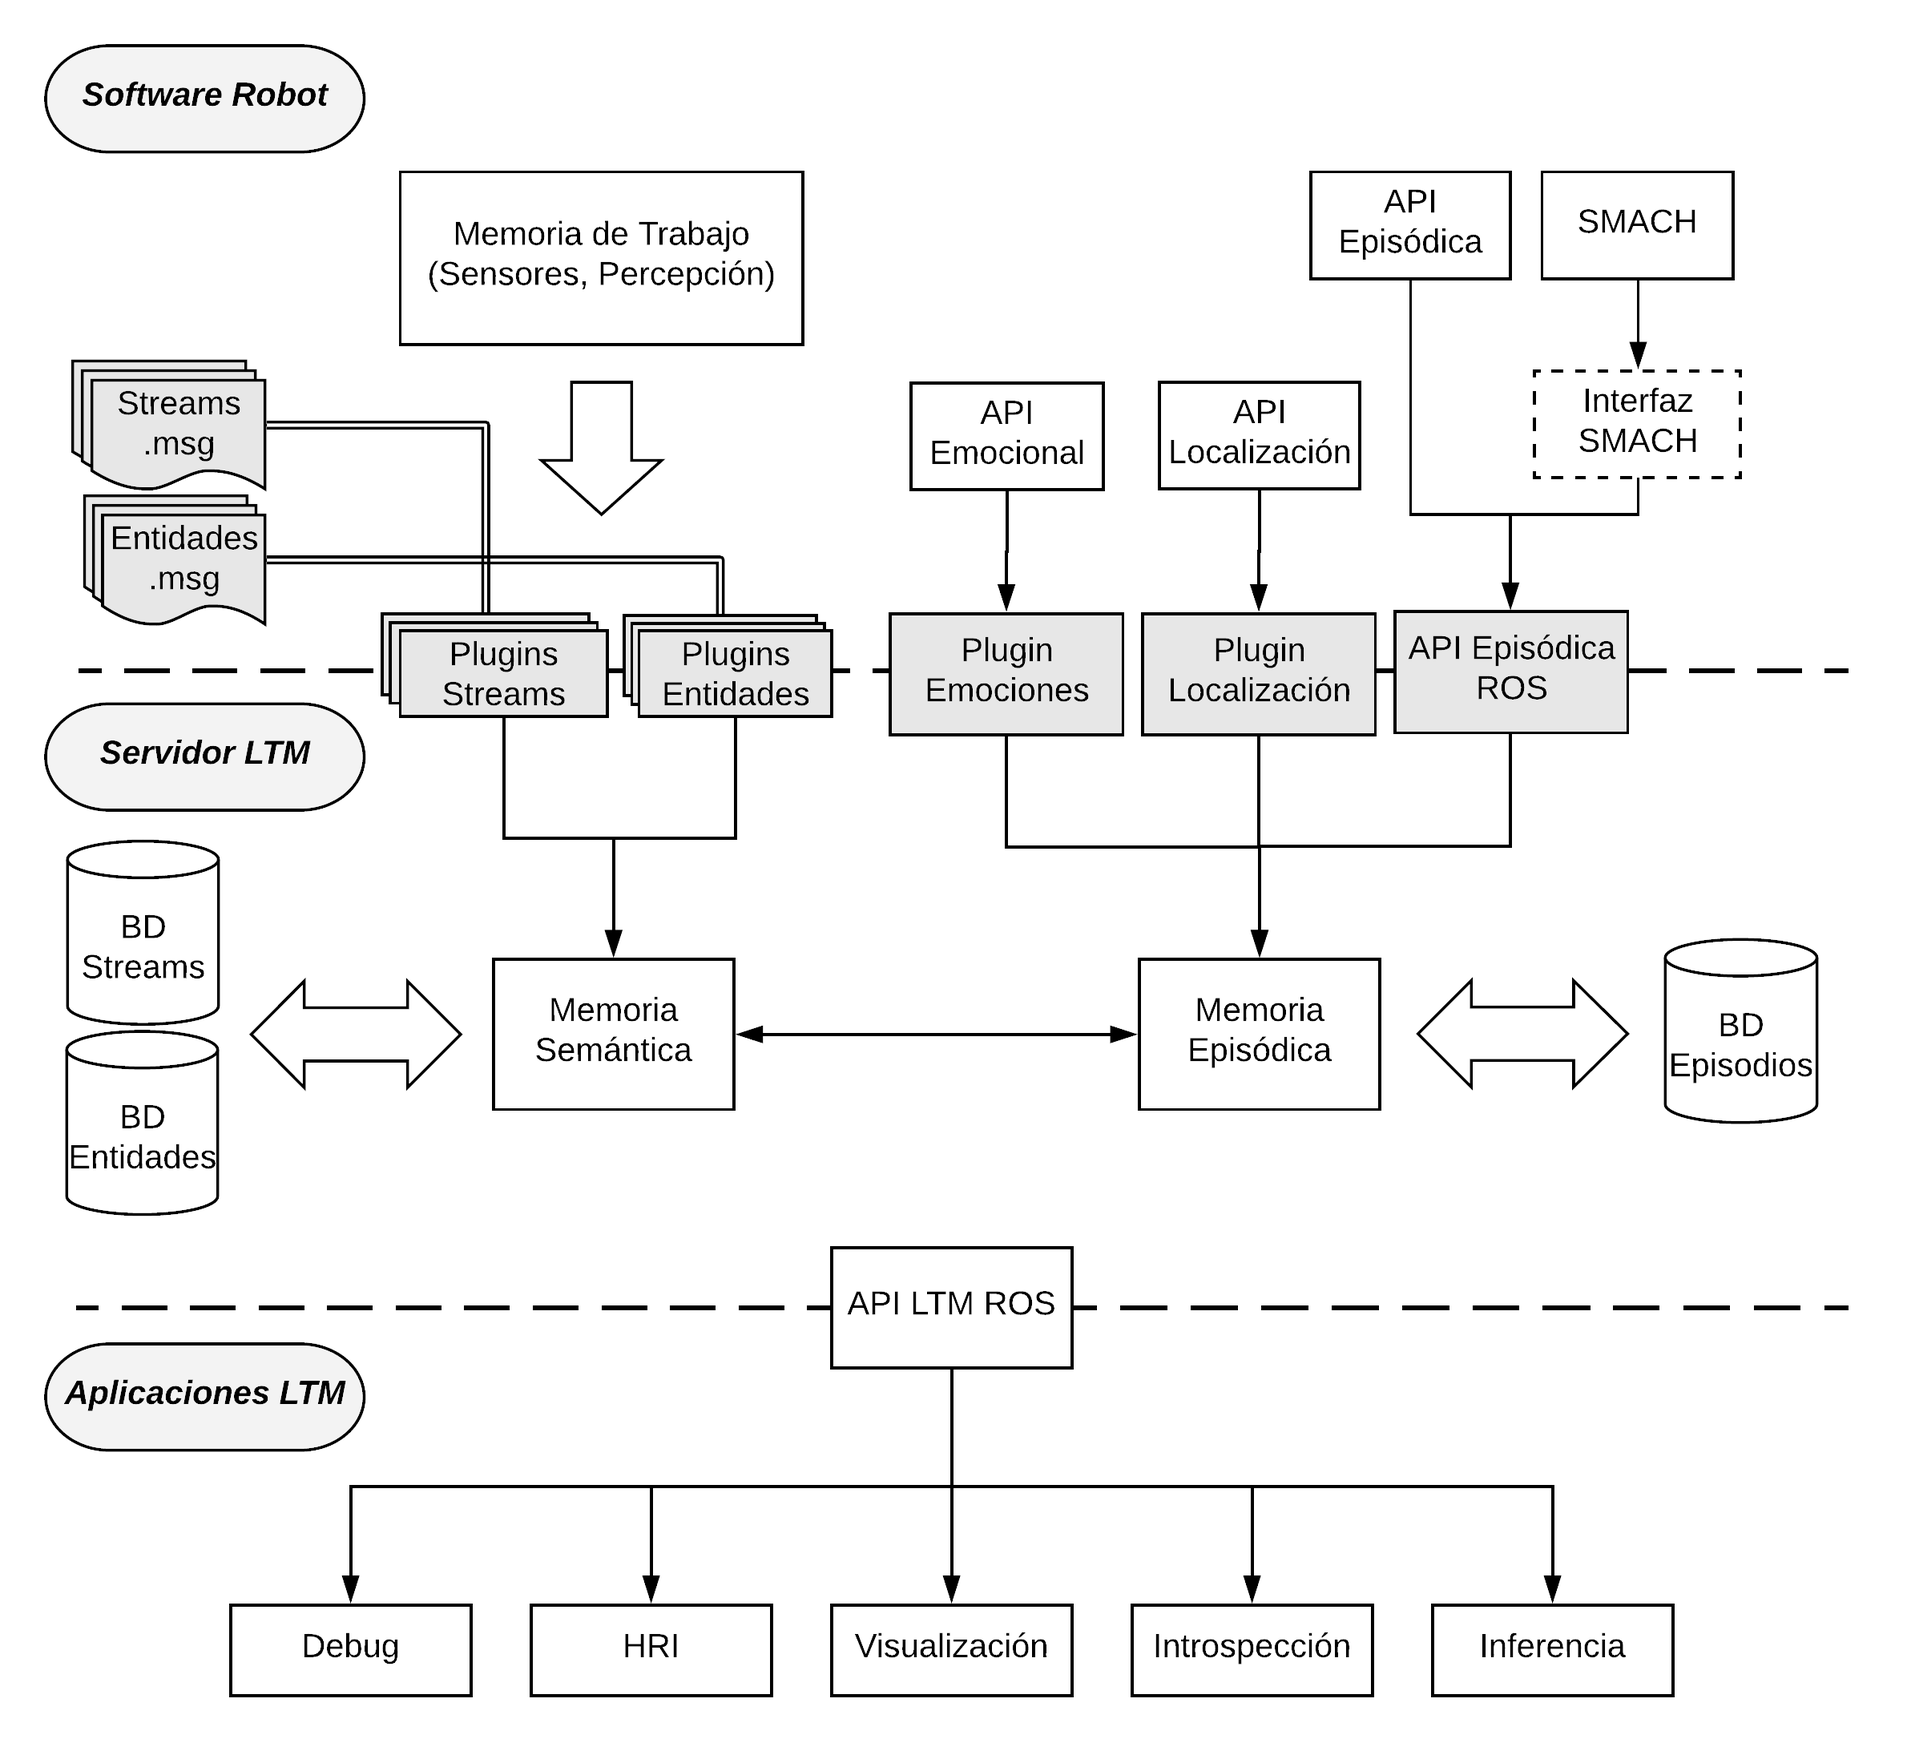
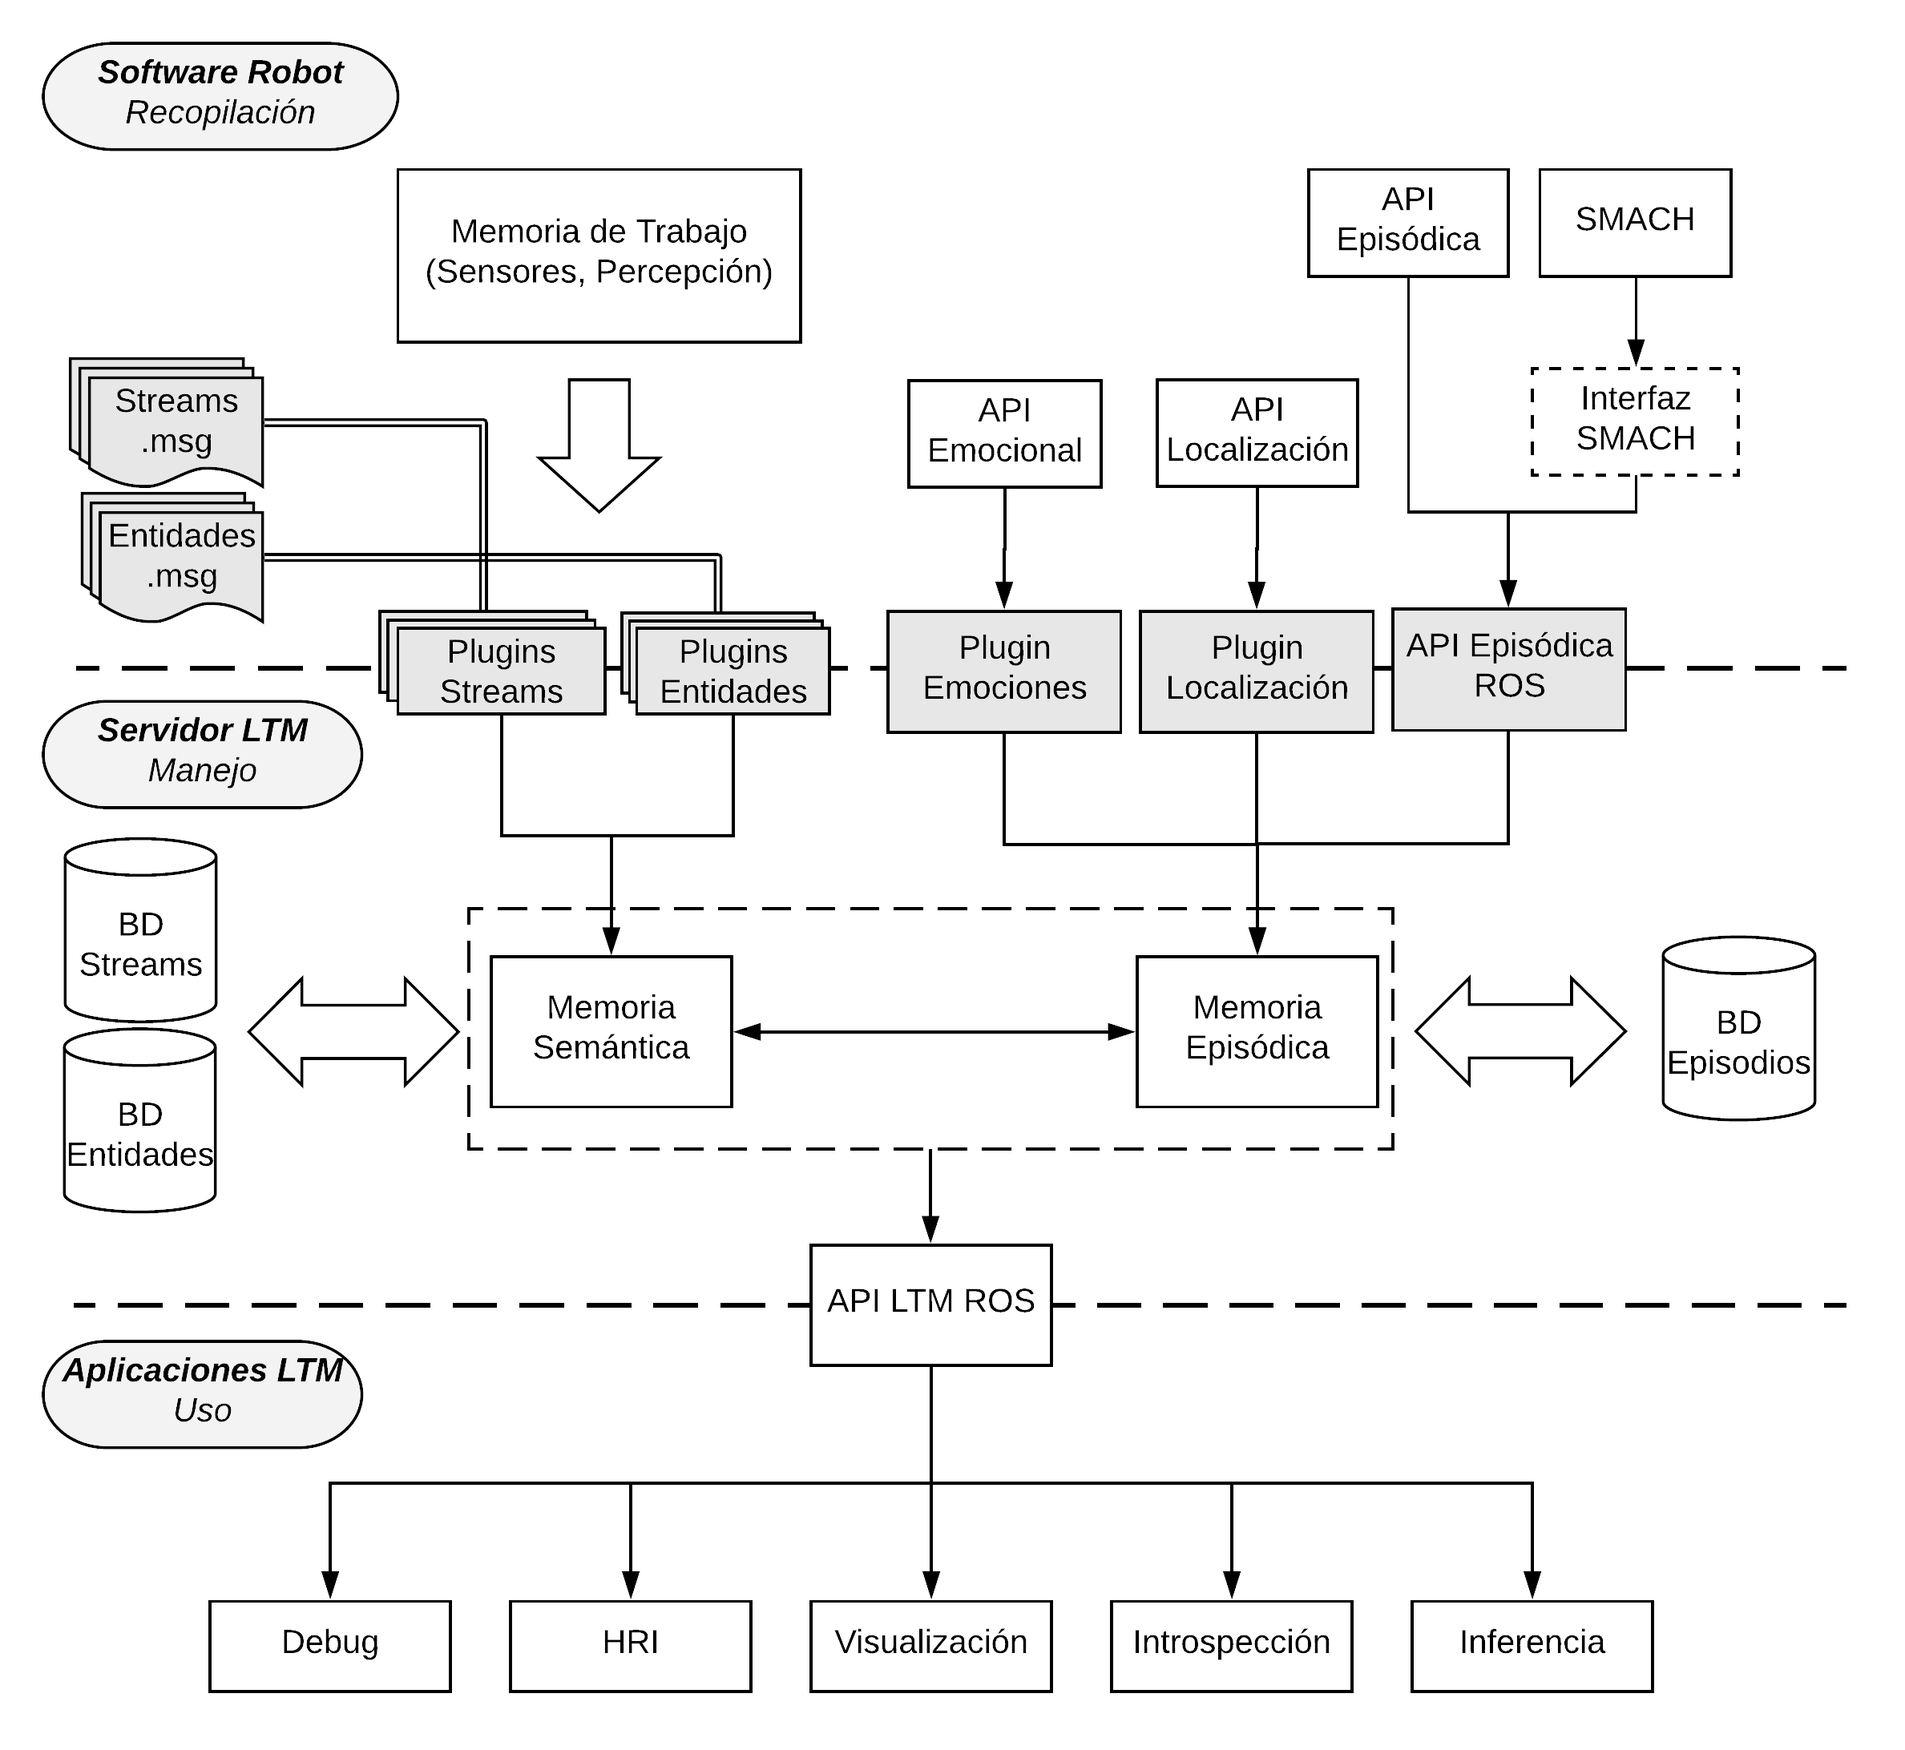
quito todos.. diagrama software

diff --git a/informe/chapters/5_implementacion.tex b/informe/chapters/5_implementacion.tex
@@ -139,9 +139,6 @@ La documentación incluye una guía de instalación del proyecto y sus dependenc
 
 En ésta sección se muestran los mensajes ROS implementados para manejar el concepto de episodios, los que son la base sobre la que se construye el sistema LTM y definen la estructura episódica a utilizar para la comunicación entre los clientes y el servidor en ROS.
 
-\todounsure{Pongo código fuente de todos los mensajes definidos?.. los pongo en los anexos?.. son 3 páginas de sólo código!!}
-
-
 % \ref{lst:episode.msg}
 \subsection{Mensajes definidos por el servidor}
 
@@ -161,7 +158,6 @@ Finalmente, tomando en cuanta las consideraciones anteriores, se agregan los aju
 	\item Campo \texttt{uint8 type}: Sirve para indicar si el episodio debe ser considerado como hoja o nodo del árbol.
 	\item Campo \texttt{string[] children\_tags}: Vector que sirve para acceder rápidamente a todos los \texttt{tags} definidos en los hijos. Se reserva el campo \texttt{tags}, para dar descripciones asociadas solamente al episodio actual.
 \end{itemize}
-\todoimplementation{Optimización: condición de que hijos son ordenados por tiempo de inicio}
 
 % SOBRE EL MENSAJE ROS
 \paragraph{Representación:}
@@ -180,7 +176,6 @@ Y el mensaje \texttt{Episode.msg} es modificado como sigue:
 % SOBRE MENSAJE EPISODICO
 \paragraph{Representación:}
 Considerando el diseño estudiado, se crea el mensaje \texttt{Where.msg} para almacenar el contexto espacial del episodio, utilizando los siguientes campos:
-\todopaused{Actualizar estos datos de acuerdo a la modificación que se hará al sistema.}
 \begin{itemize}
 	\item \texttt{geometry\_msgs/Point position}\footnote{El paquete de ROS \texttt{geometry\_msgs} proporciona mensajes para manejar primitivas geométricas y sus transformaciones. Pertenece al conjunto de paquetes para mensajes \texttt{common\_msgs}, el cual se considera estable. Más información en la web oficial: \url{http://wiki.ros.org/geometry\_msgs}}: Mensaje que permite definir la posición del robot durante la ocurrencia del episodio. A pesar de que el tipo de dato permite definir 3 coordenadas, sólo se consideran los campos \texttt{position.x} y \texttt{position.y}. En el caso de ser un nodo del árbol, corresponde al centroide del campo \texttt{children\_hull}.
 	\item \texttt{string frame\_id}: Indica el nombre del sistema de coordenadas sobre el cual se define el campo \texttt{position}.
@@ -191,11 +186,6 @@ Considerando el diseño estudiado, se crea el mensaje \texttt{Where.msg} para al
 	\item \texttt{string[] children\_locations}:
 	\item \texttt{string[] children\_areas}:
 \end{itemize}
-\todoimplementation{Crear submensaje para Where.msg, que almacene: location, area, time}
-\todoimplementation{Soportar más de 1 lugar semántico y coordenado para hijos.}
-\todoimplementation{Modificar implementación para agregar soporte a más de un frame/mapa.}
-\todoimplementation{Crear submensaje para Where.msg, que represente ubicación coordenada múltiple}
-\todoimplementation{Limitantes Where: + de una posición.... Frames únicos por árbol}
 
 Finalmente, el mensaje \texttt{Episode.msg} es modificado como sigue:
 \begin{itemize}
@@ -250,7 +240,6 @@ Finalmente, el mensaje \texttt{Relevance.msg} es modificado como sigue:
 \begin{itemize}
 	\item \texttt{ltm/HistoricalRelevance historical}: Se agrega una instancia del mensaje ROS de tipo \texttt{HistoricalRelevance.msg}, para almacenar la información relativa a la relevancia histórica del episodio.
 \end{itemize}
-\todopaused{Sobre la tasa de decaimiento histórica implementada.}
 
 % MENSAJE ROS
 \paragraph{Representación:}
@@ -264,7 +253,6 @@ Para su diseño, se crea un mensaje de tipo \texttt{Info.msg} con los siguientes
 	\item \texttt{string ros\_version}: Distribución de ROS utilizada. Por ejemplo, ``kinetic''.
 	\item \texttt{string os\_version}: Información sobre el sistema operativo donde se ejecuta el servidor LTM. Por ejemplo, ``GNU/Linux, Ubuntu 16.04, 4.13.0-43-generic, x86\_64''.
 \end{itemize}
-\todolater{Corregir campos con los de la versión final.}
 
 Luego, se modifica el mensaje \texttt{Episode.msg} como sigue:
 \begin{itemize}
@@ -276,8 +264,7 @@ Una vez definido que los mensajes para \textit{streams} y entidades serán almac
 \begin{itemize}
 	\item \texttt{ltm/What what}: Se agrega una instancia del mensaje \texttt{What.msg}. Sus contenidos son descritos en las siguientes secciones.
 \end{itemize}
-\todoimplementation{Mensajes definidos por usuario deben poseer un campo con metadatos, manejados por el server.}
-\todoimplementation{LTM server con warning en texto y notificación inotify cuando quede poco espacio de disco (menor a X\%) (o se ha ocupado más de X GB) debido al server... configurable por usuario...}
+
 
 % REPRESENTACIÓN EN EL MENSAJE EPISODE.MSG
 \paragraph{Representación:}
@@ -285,27 +272,16 @@ Considerando lo anterior, se modifica el mensaje \texttt{What.msg} para agregar 
 \begin{itemize}
 	\item \texttt{string[] streams}: Listado de \textit{streams} almacenados para el episodio,  referenciados por los nombres de sus colecciones. El identificador del \textit{stream} corresponde al campo \texttt{uid} del episodio.
 \end{itemize}
-\todoimplementation{Mensajes definidos por usuario deben poseer un campo con metadatos, manejados por el server.}
-
-\todoimplementation{Se podría agregar ID opcional del stream. Si ID=0, entonces se ocupa el uid del episodio. Sirve para casos de prueba en donde se busque crear N episodios, pero no se requiera crear N streams de cada tipo. i.e., para asociar ID fijo a todo un set de episodios.}
 
 % REPRESENTACIÓN EN EL MENSAJE EPISODE.MSG
 \paragraph{Representación:}
 % TODO
 
-\todoimplementation{COMO MANEJAR CONTEXTOS, PUES SE PUEDE REQUERIR SU INFORMACIÓN, INCLUSO DURANTE EL MISMO EPISODIO!!.. DEBEN SER ALMACENADOS UNA VEZ INSCRITOS Y SER CERRADOS MANUALMENTE.}
 
-
-\todoimplementation{Modificación de la estructura de mensajes semánticos}
 % modificar msg de colección MD5 y poder seguir ocupando la base de datos.
 % - mongo no tiene problema en modificar representación ...
 % - el driver ROS si.
 
-\todoimplementation{Server con warning si mensaje a almacenar pesa más del límite!.}
-\todowrite{Es labor del usuario definir el merge del historial.}
-
-\todoimplementation{Condiciones de búsqueda para cada tipo de dato primitivo en ROS.}
-\todoimplementation{Quitar Update service para episodios,streams y entidades.}
 
 \lstset{style=/Style/ROS/MSG}
 \lstinputlisting[caption=ltm/Episode.msg,label=lst:episode.msg]{code/msg/Episode.msg}
@@ -416,7 +392,6 @@ Considerando lo anterior, se modifica el mensaje \texttt{What.msg} para agregar 
 .
 \lstset{style=/Style/yaml/ROS}
 \lstinputlisting[caption=server.yaml]{code/config/server.yaml}
-\todounsure{Listing en los anexos??}
 
 \subsubsection{Launchfiles}
 
@@ -549,10 +524,6 @@ Considerando lo anterior, se modifica el mensaje \texttt{What.msg} para agregar 
 % - Registro en pluginlib y configuración en el server
 % - REVISAR MATCH CON DISEÑO ESCRITO
 .
-\todopaused{Escribir cuando esté implementado}
-
-\todowrite{PONERSE EN EL LUGAR DE NO ALCANZAR A IMPLEMENTAR EN BENDER... PERO DEJAR PROPUESTA...}
-
 
 % ==============================================================================
 % ==============================================================================
@@ -571,7 +542,6 @@ Considerando lo anterior, se modifica el mensaje \texttt{What.msg} para agregar 
 %    - emociones simples.
 %    - módulos disponibles (con el robot a medias)
 .
-\todopaused{Escribir cuando esté implementado}
 
 
 % ==============================================================================
@@ -582,8 +552,6 @@ Considerando lo anterior, se modifica el mensaje \texttt{What.msg} para agregar 
 % INTERFAZ IMAGES
 % - API del ROBOT
 .
-\todopaused{Escribir cuando esté implementado}
-\todoimplementation{Proveer plugin agnóstico al robot, configurable a través de parámetros.}
 
 % ==============================================================================
 % ==============================================================================
@@ -593,7 +561,6 @@ Considerando lo anterior, se modifica el mensaje \texttt{What.msg} para agregar 
 % INTERFAZ ENTITIES
 % - API del ROBOT
 .
-\todopaused{Escribir cuando esté implementado}
 
 
 % ==============================================================================

diff --git a/informe/chapters/4_diseno.tex b/informe/chapters/4_diseno.tex
@@ -451,7 +451,7 @@ Por lo general, los campos de un \textit{stream} no requieren ser indexados, ya 
 \ltmconcept{Tamaño del mensaje}
 El límite de tamaño para cada mensaje ROS a almacenar es de $16 MB$, lo que impone una cota superior a la cantidad de datos que pueden ser almacenados por cada episodio. Según se describe en la Sección  \ref{sec:mongodb}, \textit{MongoDB} provee estrategias de almacenamiento para evitar este límite, las que deben ser configuradas manualmente por el usuario.
 
-\todoimprove{Por ejemplo, esto permitiría almacenar hasta $N$ imágenes a color de cierto tamaño, o $M$ de ellas en escala de grises.}
+%\todoimprove{Por ejemplo, esto permitiría almacenar hasta $N$ imágenes a color de cierto tamaño, o $M$ de ellas en escala de grises.}
 
 
 %% =============================================================================
@@ -537,6 +537,7 @@ No es necesario dar soporte para crear nuevos registros del historial de entidad
 Para evitar sobrecargar el ancho de banda de red, con respuestas a consultas que retornen muchos episodios o datos semánticos, se diseñan las operaciones de lectura en 2 etapas. Primero, se obtienen los identificadores de los mensajes de interés mediante una condición que provee el usuario. Luego, se puede acceder a los episodios, \textit{streams} y entidades mediante servicios ROS, encargados de retornar mensajes para los identificadores escogidos.
 
 \ltmconcept{Filtro de mensajes}
+La búsqueda de mensajes según condiciones es considerada por el requisito \RSlabel{06}.
 Para evitar limitar las consultas que puede realizar el usuario sobre la base de datos y para simplificar el diseño, se decide utilizar el sistema de condiciones nativo de MongoDB. Así, es posible aplicar filtros complejos a las consultas, basados en todos los campos disponibles de cada documento. Sin embargo, las consultas sólo pueden ser aplicadas a una colección a la vez. Algunas de las condiciones que provee MongoDB son: igualdad, mayor qué (y derivados), pertenencia a un arreglo y agrupamiento lógico mediante condiciones \textit{AND} y \textit{OR}.
 
 \ltmconcept{Episodios}
@@ -603,16 +604,18 @@ No es necesario proveer una API ROS para la eliminación de información episód
 %% =============================================================================
 %% =============================================================================
 
-\todowrite{Texto ACÁ}
+A continuación se describe el diseño del servidor LTM, a partir de las consideraciones para el modelo de datos, que se presentaron en las secciones anteriores. En primer lugar, ...
+\todowrite{completar esto}
 
+El sistema LTM diseñado se presenta en la Figura \ref{img:diagrama-software}. A modo general, se indican las 3 etapas del flujo de información LTM en el sistema: recopilación desde la memoria STM del robot, manejo y almacenamiento por el servidor, y uso de la información por las aplicaciones del usuario. Los componentes del diagrama son explicados en detalle en las siguientes secciones.
 
 \begin{figure}[!h]
 	\centering
 	\includegraphics[width=\textwidth]{diagrama-software.png}
-	\caption{\small TODO.}
-	\label{img:URF}
+	\caption{\small Diagrama con el diseño del sistema LTM y los módulos de software involucrados. La zona superior indica todos los módulos de software del robot necesarios para proveer información al sistema LTM. En plomo se presentan los componentes que debe implementar el usuario, que sirven como interfaz entre el robot y el sistema, para la recopilación de información. En la zona central se realiza el manejo y almacenamiento de la información episódica. En la zona inferior, el servidor se comunica mediante una API ROS con las aplicaciones LTM implementadas por el usuario.}
+	\label{img:diagrama-software}
 \end{figure}
-\todoimprove{Captions y referencias}
+
 
 %% =============================================================================
 %% =============================================================================
@@ -621,14 +624,10 @@ No es necesario proveer una API ROS para la eliminación de información episód
 %% =============================================================================
 %% =============================================================================
 %% =============================================================================
-% - Diseño del servidor LTM según requisitos
-% - uso de MongoDB
 % - Minimizar dependencias
 % - API ROS: servicios, parámetros, nodos
 % - parámetros (dar énfasis en la implementación)
-% - estrategia de actualización episódica... branching.. etc.
 .
-
 
 %% =============================================================================
 %% =============================================================================
@@ -836,18 +835,5 @@ Se debe implementar un nodo que publique mensajes aleatorios sobre las entidades
 
 \ltmconcept{Versión en Bender}
 Se debe implementar un módulo capaz de notificar cambios en las entidades conocidas por el robot, a partir de sus módulos de percepción disponibles. El plugin se debe suscribir al tópico asociado.
-
-
-
-
-
-
-
-
-
-
-
-
-
 
 

diff --git a/informe/main.tex b/informe/main.tex
@@ -75,7 +75,6 @@
 
 \mainmatter
 
-\todowrite{Agregar summary al final de cada capítulo?}
 \input{./chapters/1_introduccion}
 \input{./chapters/2_teoria}
 \input{./chapters/3_aspectos_tecnicos.tex}
@@ -84,8 +83,6 @@
 \input{./chapters/6_resultados}
 \input{./chapters/_conclusion}
 \input{./chapters/_glosario}
-
-\todowrite{Actualizar BIB de mi paper..}
 
 \bibliographystyle{IEEEtran}
 \bibliography{IEEEabrv,bibliography}
